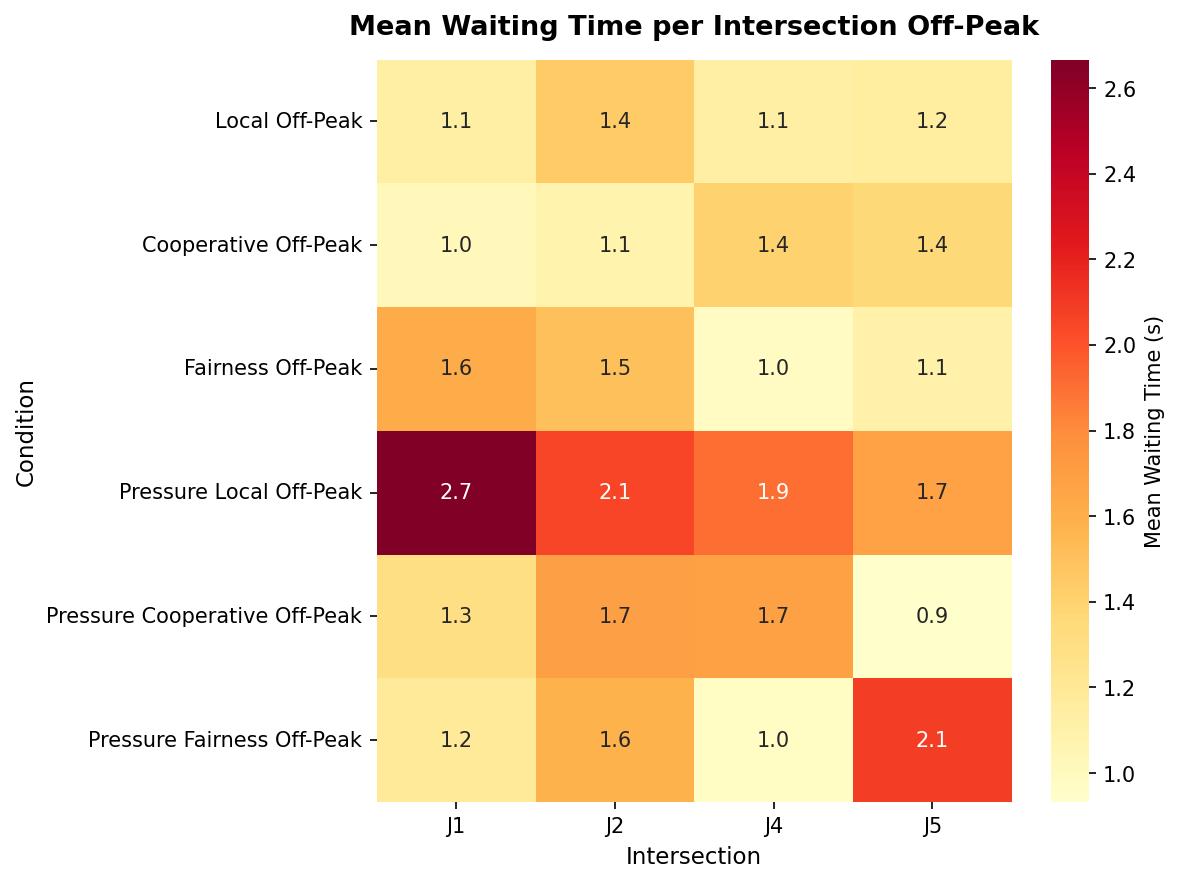
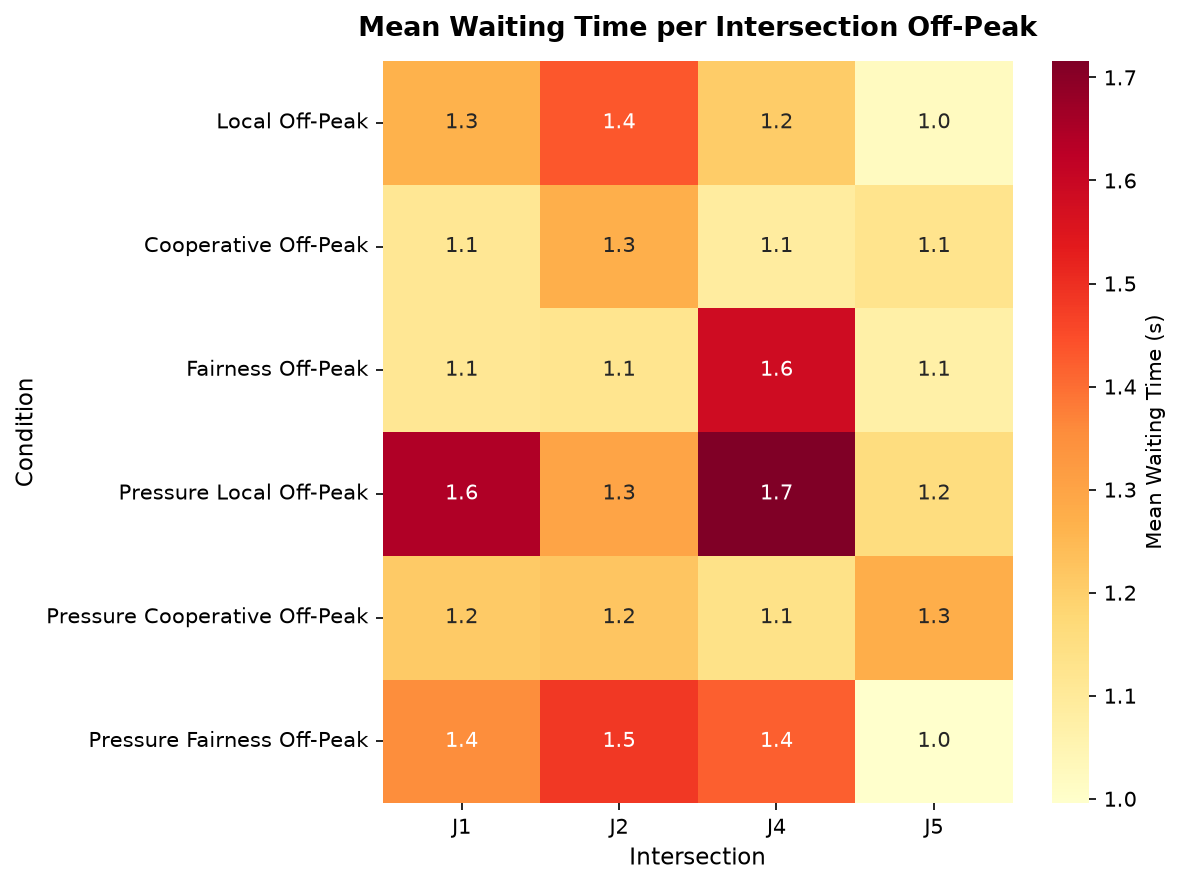
(evaluate_extension.py) this was analysis, changed name cause this is more appropriate, this file show heatmap and phase starvation
(statistical_analysis) for 4.3.1  Conduct paired t-tests comparing DQN formulations against baselines

diff --git a/evaluate_extension.py b/evaluate_extension.py
@@ -21,7 +21,7 @@ INTERSECTIONS = ["J1", "J2", "J4", "J5"]
 PROJECT_ROOT = os.path.dirname((os.path.abspath(__file__)))
 HEATMAP_DIR = 'output_plots/heatmap'
 STARVATION_DIR = 'output_plots/starvation'
-
+DEFAULT_SEED = [42, 123, 456, 789, 1000]
 
 
 MODELS = {
@@ -49,18 +49,10 @@ FAIRNESS_MODELS = {
 }
 
 MODEL_COLORS = {
-    "Local Peak":                    "#4C9BE8",
-    "Cooperative Peak":              "#E8774C",
-    "Fairness Peak":                 "#4CE89B",
-    "Pressure Local Peak":           "#9BC7F5",
-    "Pressure Cooperative Peak":     "#F5B39B",
-    "Pressure Fairness Peak":        "#9BF5C7",
-    "Local Off-Peak":                "#1A5FA8",
-    "Cooperative Off-Peak":          "#A83A10",
-    "Fairness Off-Peak":             "#1A9B5F",
-    "Pressure Local Off-Peak":       "#5F8FD6",
-    "Pressure Cooperative Off-Peak": "#D67A5F",
-    "Pressure Fairness Off-Peak":    "#5FD69B",
+    "Fairness Peak":             "#E84C4C",
+    "Fairness Off-Peak":         "#4C9BE8",
+    "Pressure Fairness Peak":    "#E8C34C",
+    "Pressure Fairness Off-Peak":"#9B4CE8", 
 }
 
 def load(path):
@@ -94,7 +86,8 @@ def select_actions(states, agents):
         for j in INTERSECTIONS
     }
 
-def run_episode_extended(env, agents):
+def run_episode_extended(env, agents, seed=0):
+    env.seed = seed
     states = env.reset()
 
     wait_history = {j: [] for j in INTERSECTIONS}
@@ -125,10 +118,20 @@ def collect_heatmap_data():
         print(f'running {label}')
         env = get_env(scenario, reward_fn="local")
         agents = load_agents(env, models_dir)
-        wait_history, _ = run_episode_extended(env, agents)
+
+        all_wait_histories = []
+        for ep in range(5):
+            print(f'episode {ep+1}/5')
+            env.seed = DEFAULT_SEED[ep]
+            wait_history, _ = run_episode_extended(env, agents)
+            all_wait_histories.append(wait_history)
+
         env.close()
 
-        means = {j: float(np.mean(wait_history[j])) for j in INTERSECTIONS}
+        means = {
+            j: float(np.mean([np.mean(ep[j]) for ep in all_wait_histories]))
+            for j in INTERSECTIONS
+        }
         if scenario == "peak":
             peak_data[label] = means
         else:
@@ -171,11 +174,60 @@ def run_heatmap_analysis():
     plot_heatmap_combined(peak_data, "Mean Waiting Time per Intersection Peak", "heatmap_peak.png")
     plot_heatmap_combined(offpeak_data, "Mean Waiting Time per Intersection Off-Peak", "heatmap_off_peak.png")
 
+def collect_starvation_data():
+    '''Run all fairness model inside peak and off peak scenario (one episode)'''
+    results = {}
+
+    for label, (models_dir, scenario) in FAIRNESS_MODELS.items():
+        print(f'running {label}')
+        env = get_env(scenario, reward_fn="local")
+        agents = load_agents(env, models_dir)
+
+        env.seed = 0
+        _, starvation_history = run_episode_extended(env, agents)
+        env.close()
+
+        results[label] = starvation_history
+
+    return results
+
+def plot_starvation_timeseries(results):
+    fig, axes = plt.subplots(2, 2, figsize=(14, 8), sharex=True)
+    axes = axes.flatten()
+
+    for idx, j in enumerate(INTERSECTIONS):
+        ax = axes[idx]
+        for label, starvation_history in results.items():
+            ax.plot(
+                starvation_history[j],
+                label=label,
+                color=MODEL_COLORS[label],
+                linewidth=1.2,
+                alpha=0.85,
+            )
+        ax.set_title(f"Intersection {j}", fontsize=11, fontweight="bold")
+        ax.set_xlabel("Timestep")
+        ax.set_ylabel("Max Red Time (s)")
+        ax.legend(fontsize=7)
+        ax.grid(True, alpha=0.3)
+
+    fig.suptitle("Phase Starvation Over Time (Fairness Models)", fontsize=13, fontweight="bold")
+    fig.tight_layout()
+
+    os.makedirs(STARVATION_DIR, exist_ok=True)
+    path = os.path.join(STARVATION_DIR, "starvation_timeseries.png")
+    fig.savefig(path, dpi=150, bbox_inches="tight")
+    print(f"  Saved: starvation_timeseries.png")
+    plt.close(fig)
+
 def main():
     os.makedirs(HEATMAP_DIR, exist_ok=True)
     os.makedirs(STARVATION_DIR, exist_ok=True)
 
-    run_heatmap_analysis()
+    # uncomment below if needed heatmap, rn i only need phase starvation
+    # run_heatmap_analysis()
+    starvation_data = collect_starvation_data()
+    plot_starvation_timeseries(starvation_data)
 
 if __name__ == '__main__':
     print(f"PROJECT_ROOT: {PROJECT_ROOT}")

diff --git a/statistical_analysis.py b/statistical_analysis.py
@@ -1,0 +1,61 @@
+import json
+import os
+import numpy as np
+from scipy import stats
+
+EVALUATIONS_DIR = "evaluations"
+SEEDS = ["42", "123", "456", "789", "1000"]
+BASELINES = ["fixed_time", "random_legal", "greedy_queue", "webster_static"]
+KPI = "mean_waiting_time"  # or swap for other KPIs
+
+def load_per_seed(json_path: str, policy: str) -> list:
+    """Extract per-seed KPI values in seed order."""
+    with open(json_path, "r") as f:
+        data = json.load(f)
+    per_seed = data["policies"][policy]["per_seed"]
+    return [per_seed[s][KPI] for s in SEEDS]
+
+def run_paired_ttests(json_path: str, model_name: str):
+    print(f"\n{'='*80}")
+    print(f"  {model_name}")
+    print(f"{'='*80}")
+
+    dqn_scores = load_per_seed(json_path, "trained_dqn")
+
+    print(
+        f"{'Baseline':<18} | {'DQN':>8} | {'Base':>8} | "
+        f"{'Δ':>8} | {'t':>8} | {'p':>8} | Sig"
+    )
+    print("-" * 80)
+    for baseline in BASELINES:
+        baseline_scores = load_per_seed(json_path, baseline)
+
+        # paired t-test: same seed = same conditions
+        t_stat, p_value = stats.ttest_rel(dqn_scores, baseline_scores)
+
+        dqn_mean = np.mean(dqn_scores)
+        baseline_mean = np.mean(baseline_scores)
+        diff = baseline_mean - dqn_mean  # positive = DQN is better
+
+        sig = "***" if p_value < 0.001 else "**" if p_value < 0.01 else "*" if p_value < 0.05 else "ns"
+
+        print(
+            f"{baseline:<18} | "
+            f"{dqn_mean:>8.3f} | "
+            f"{baseline_mean:>8.3f} | "
+            f"{diff:>+8.3f} | "
+            f"{t_stat:>+8.3f} | "
+            f"{p_value:>8.4f} | "
+            f"{sig}"
+        )
+
+def main():
+    for filename in sorted(os.listdir(EVALUATIONS_DIR)):
+        if not filename.endswith("_results.json"):
+            continue
+        path = os.path.join(EVALUATIONS_DIR, filename)
+        model_name = filename.replace("_results.json", "")
+        run_paired_ttests(path, model_name)
+
+if __name__ == "__main__":
+    main()

diff --git a/agents/dqn.py b/agents/dqn.py
@@ -113,7 +113,7 @@ class DQNAgent:
 
     def _update_target_network(self):
         """Update the target network with main network weights."""
-         self.target_network.load_state_dict(
+        self.target_network.load_state_dict(
             self.main_network.state_dict()
         )
     def save(self, path):
